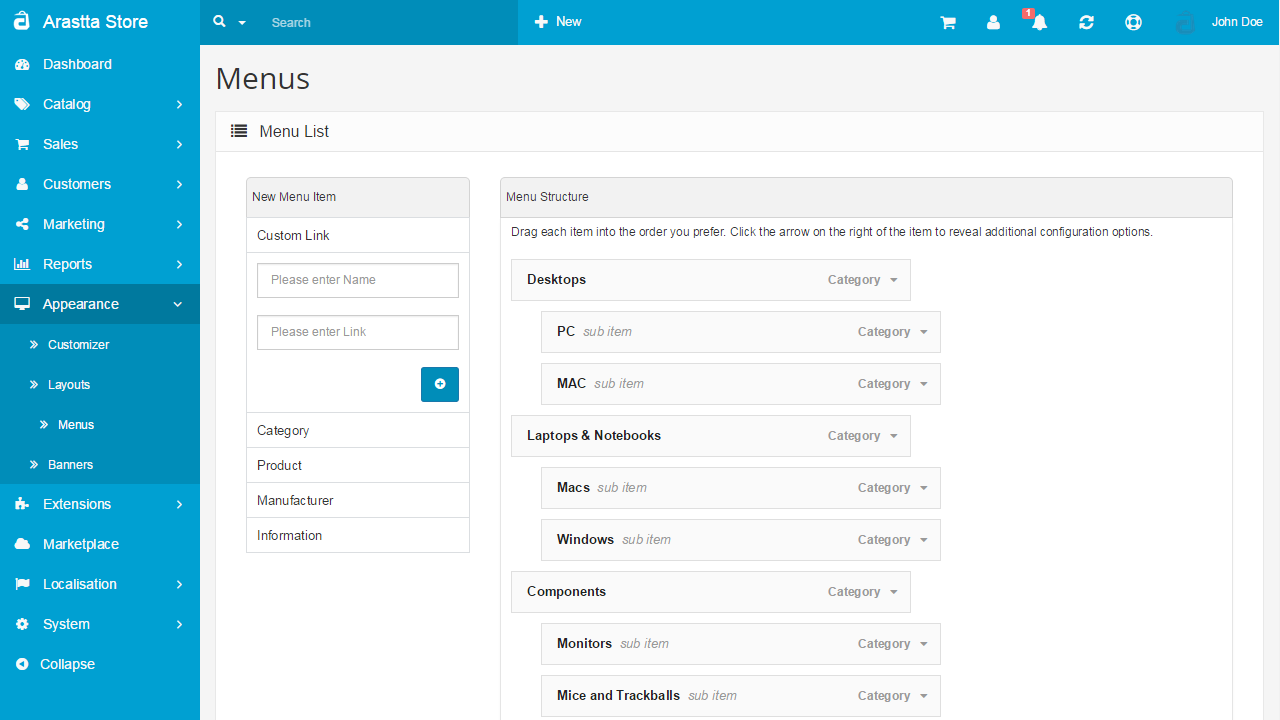
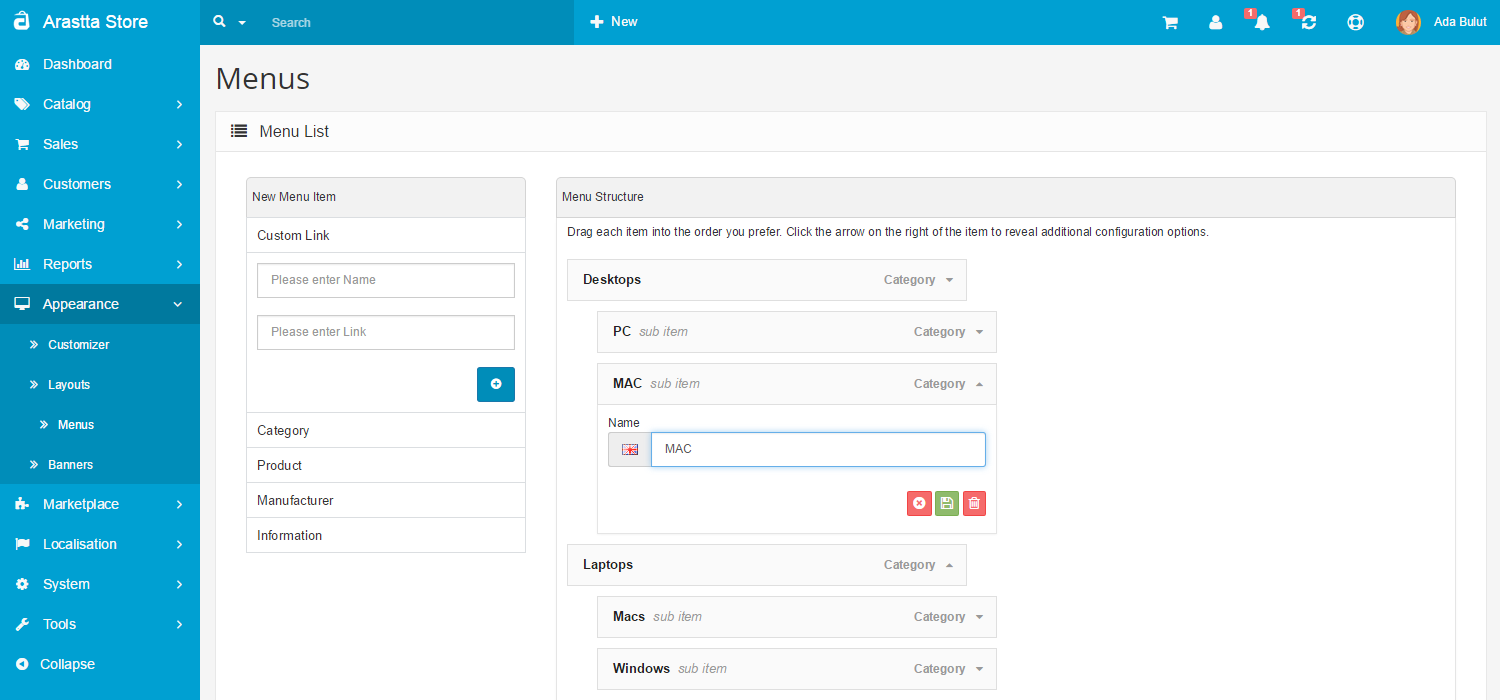
export-import, layouts, menus updated

diff --git a/user-manual/appearance/layouts.md b/user-manual/appearance/layouts.md
@@ -1,21 +1,35 @@
 Layouts
 =======
 
+Layout Manager allows you to create new layouts or edit/delete existing layouts and assign modules to them by just dragging & droping. Positioning a module in content top, bottom, column left or right has never been easier.
+
+![design layout page](_images/layouts.png)
+
+Drag & Drop
+-----------
+
+If you're familiar with WordPress, you manage and assign modules/widgets from one place, Widgets page, by just dragging & droping them. Well, the Joomla and OpenCart users are not so lucky as they have jump here and there a couple of times (can't count them) in order to display a module/widget. Thanks to the built-in Layout Manager of Arastta, you can now achieve this process on your store as easy as with WordPress.
+
 The Arastta default store provides the following page layouts:
 
 - Account
 - Affiliate
 - Category
 - Checkout
+- Compare
 - Contact
 - Default
 - Home
 - Information
-- Manufacturer
+- Manufacturer Info
+- Manufacturer List
 - Product
 - Sitemap
+- Search
 
-If you haven't done so already, you should take some time to [browse the store front](docs/user-manual/store-front). To become familiar with layouts available in Arastta, you should visit the different page types of your store front. The Manufacturer page layout has a different type of layout than the Checkout page, which has a different page layout than the Information page, and so on. It's good to see how these layouts arrange themselves, to discover how positioning a module from the Extensions section will affect the overall look of the page.
+![template files](_images/layouts-pages.png)
+
+If you haven't done so already, you should take some time to [browse the store front](docs/user-manual/store-front). To become familiar with layouts available in Arastta, you should visit the different page types of your store front. The Manufacturer page layout has a different type of layout than the Checkout page, which has a different page layout than the Information page, and so on.
 
 Creating a layout page from scratch takes some knowledge of web design and development. Once a layout page has been created, you should upload the files with an FTP client.
 
@@ -23,8 +37,6 @@ Creating a layout page from scratch takes some knowledge of web design and devel
 
 The location of the layout pages in the default theme is visible under /catalog/view/theme/default/template/ in the Arastta directory. You can see that all the page layouts from the default are included as folders above. To add a new layout page, you would need to upload the files under a new layout folder.
 
-After the new layout page is uploaded to the location above, it can added to the store by clicking the "Insert" button under System > Design > Layout. The new layout will require a layout name, the store the layout will be added to, and a route. The route is the folder name that the layout files are included in. Arastta knows to search for the folder under /catalog/view/theme/default/template/ in the store directory, so only the folder name is required.
-
-![design layout page](_images/layouts.png)
+After the new layout page is uploaded to the location above, it can added to the store by clicking the "Insert" button under Appearance > Layouts. The new layout will require a layout name, the store the layout will be added to, and a route. The route is the folder name that the layout files are included in. Arastta knows to search for the folder under /catalog/view/theme/default/template/ in the store directory, so only the folder name is required.
 
 Clicking "Add Route", then "Save" will make the new layout available in the store. See [Modules ](docs/user-manual/extensions/modules/overview)for more information on how to add a module to a specific layout page.

diff --git a/user-manual/appearance/menus.md b/user-manual/appearance/menus.md
@@ -1,6 +1,23 @@
 Menus
 =====
 
-Coming soon...
+Menus are very important for a website no matter what platform you are using. All big boys like Joomla, WordPress, Drupal etc. has a menu manager in order let you customize it. However, system like OpenCart are lacking in such areas. I believe you already wanted to modify your top header menu bar and add some links or some kind of advertising links for your buyers. In such a case, the only solution is to get your hands dirty and dive into the code.
+
+With Arastta, you should just go to the Appearance > Menus and create or edit menu items with just drag & drop.
 
 ![menus backend](_images/menus.png)
+
+Custom Links
+------------
+
+Thanks to its extendability, you can create menu items for your products, categories, manufacturers, informations or even custom links with ease. After creating, just drag & drop and Arastta will automatically save the menu item position. You can also change depth of menu items by just dragging them in or out.
+
+Multi-Language and Multi-Store
+------------------------------
+
+You can set different text to menu items for each store and assign them to different & multiple stores.
+
+Ajaxified
+---------
+
+The menu item creating, saving, moving, deleting etc process is all Ajaxified so users don't need to navigate from one web form to another.

diff --git a/user-manual/tools/export-import.md b/user-manual/tools/export-import.md
@@ -1,10 +1,25 @@
 Export / Import
 ===============
 
-Coming soon...
+The Import/Export Tool allows the admin user to do a bulk export of all the categories, products, options and attributes to an Excel spreadsheet file. The spreadsheet file can be edited offline and then be re-imported to the OpenCart database.
+
+![import backend](_images/export-import-2.png)
+
+The Import can be incremental, that is, data is updated or added to the Arastta server. Or it can be non-incremental which means all old data is first deleted before the Import.
 
 ![export backend](_images/export-import-1.png)
 
-![import backend](_images/export-import-2.png)
+The Export can be limited to certain data ranges only for products and categories.
+
+Multiple languages are supported, too.
+
+Requirements and Limitations
+----------------
+
+Memory requirements can be quite high.
+
+Not every shared web hosting account supports a high process memory usage. 
+Therefore, if you use a basic shared web hosting account, no more than a few thousand products can be exported or imported at a time. 
+Use a more dedicated web hosting account if a higher number of products are to be processed in one go. Or export and import multiple times in smaller batches.
 
 ![export import settings](_images/export-import-3.png)
